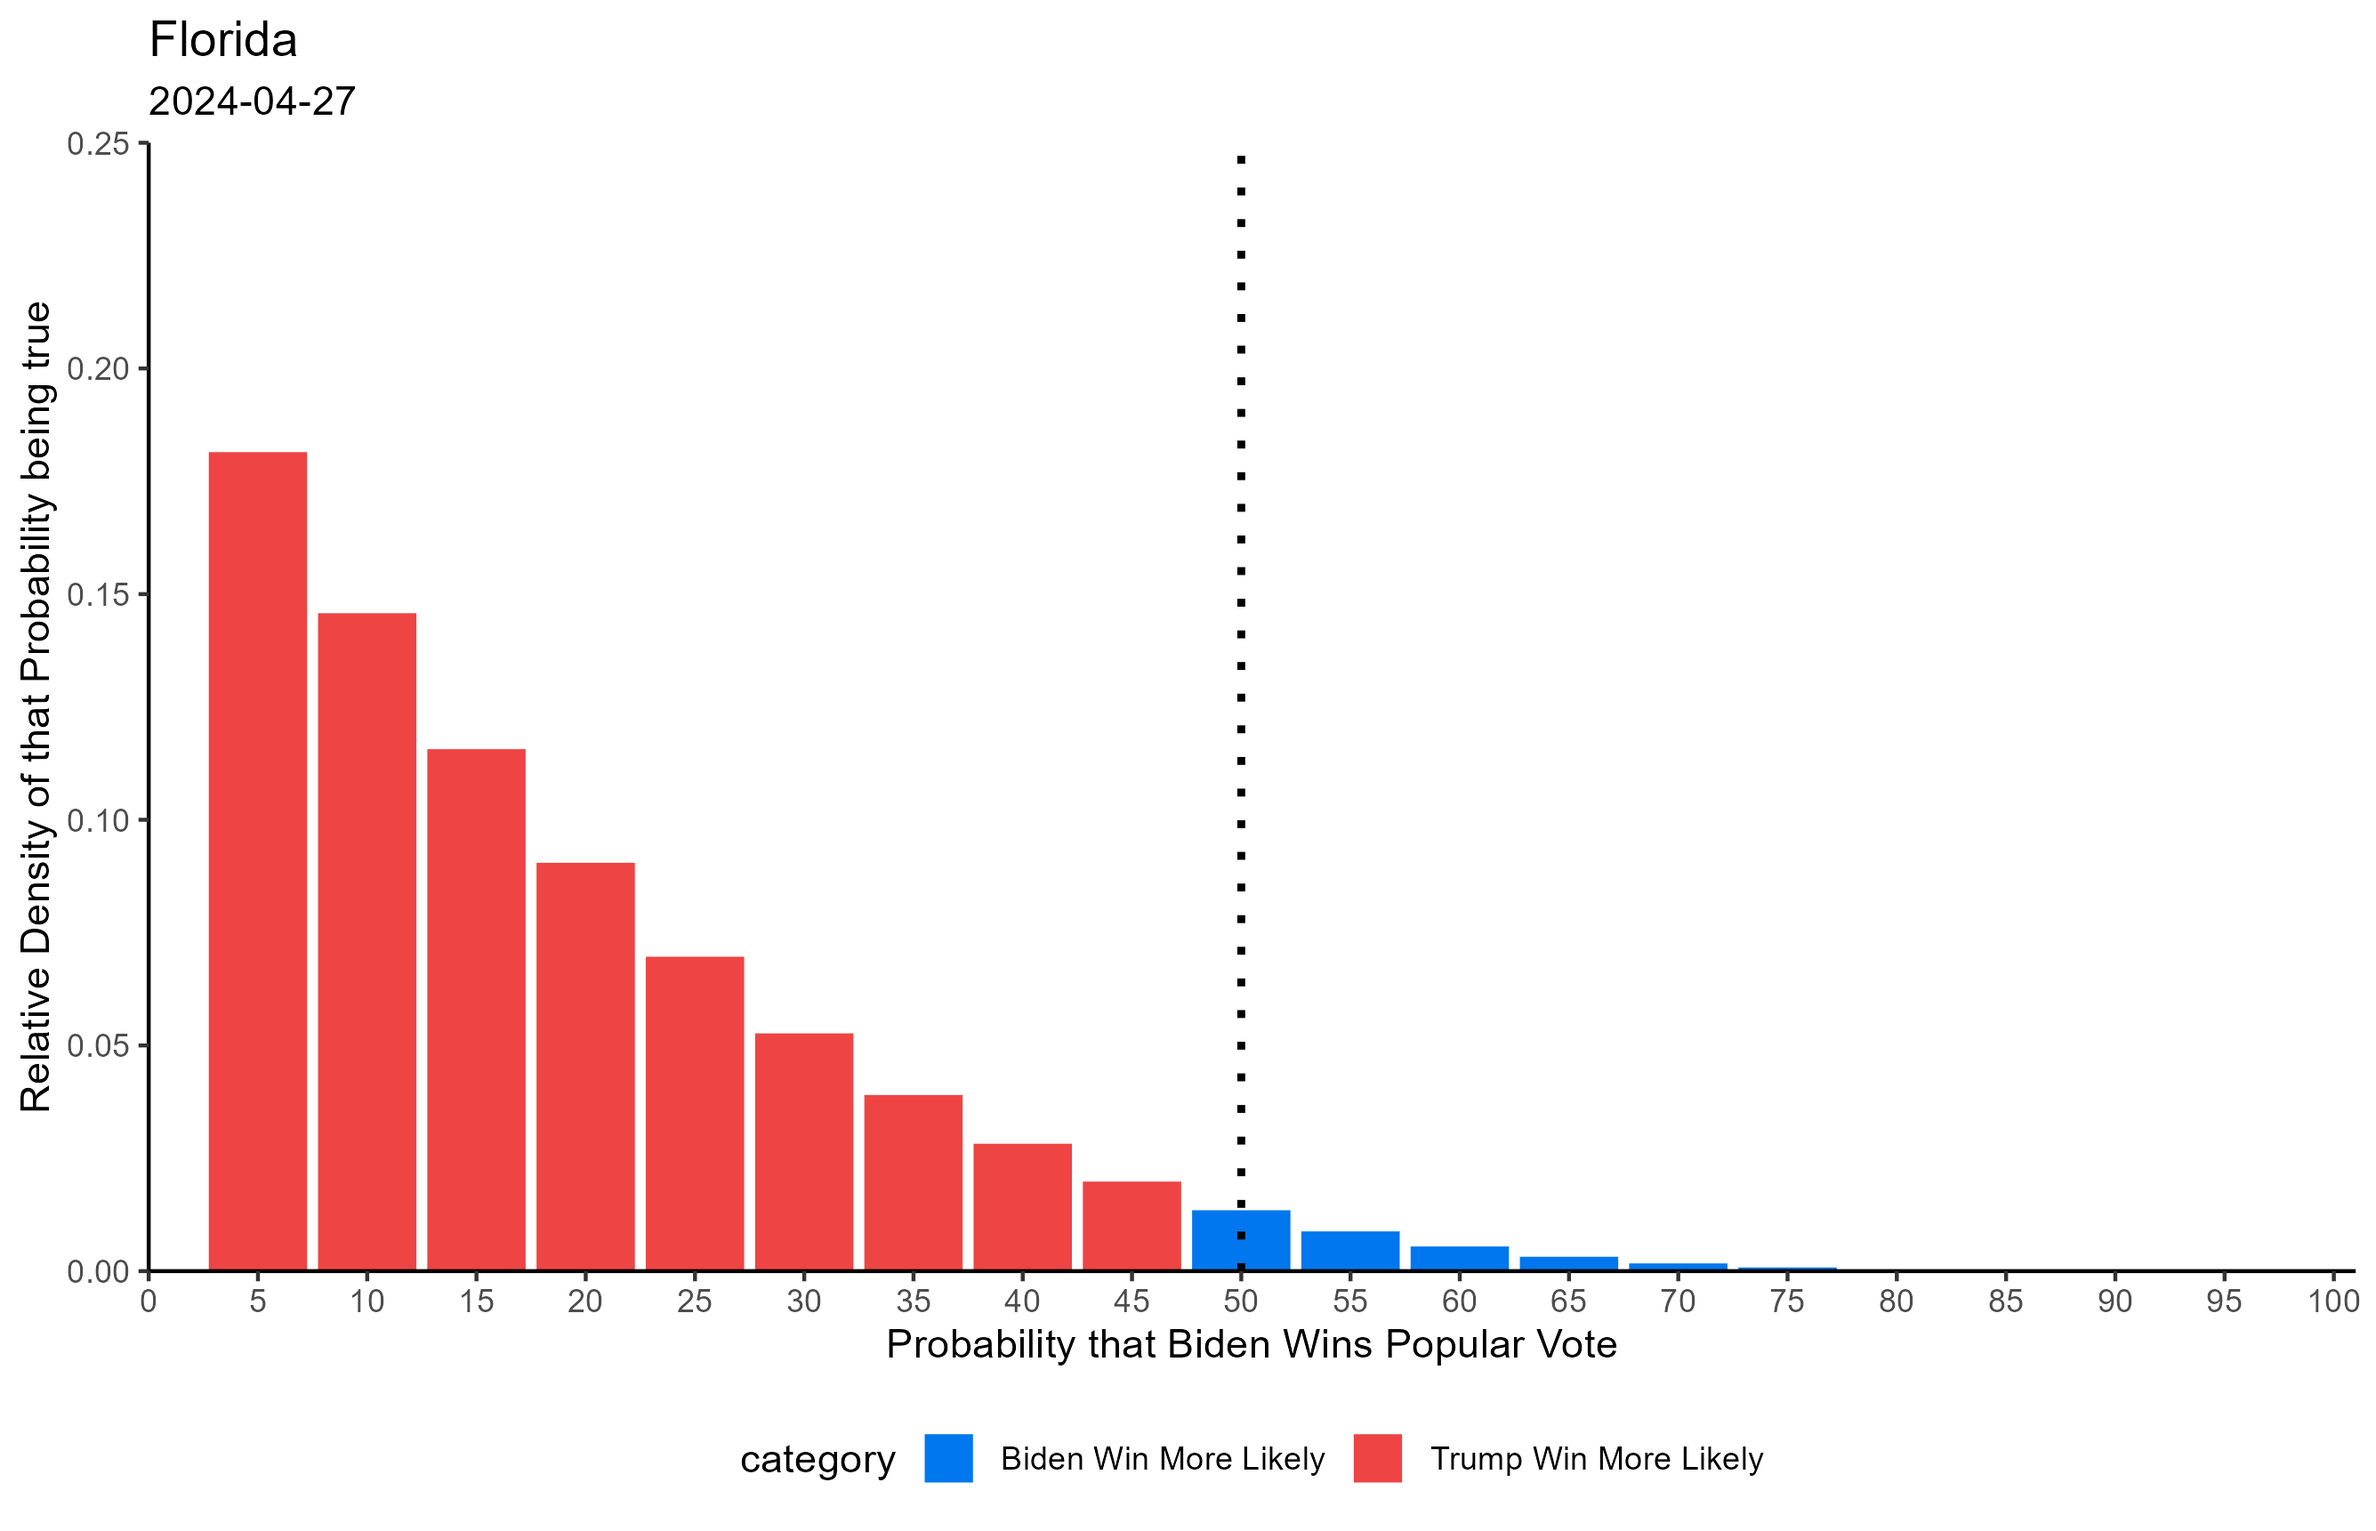
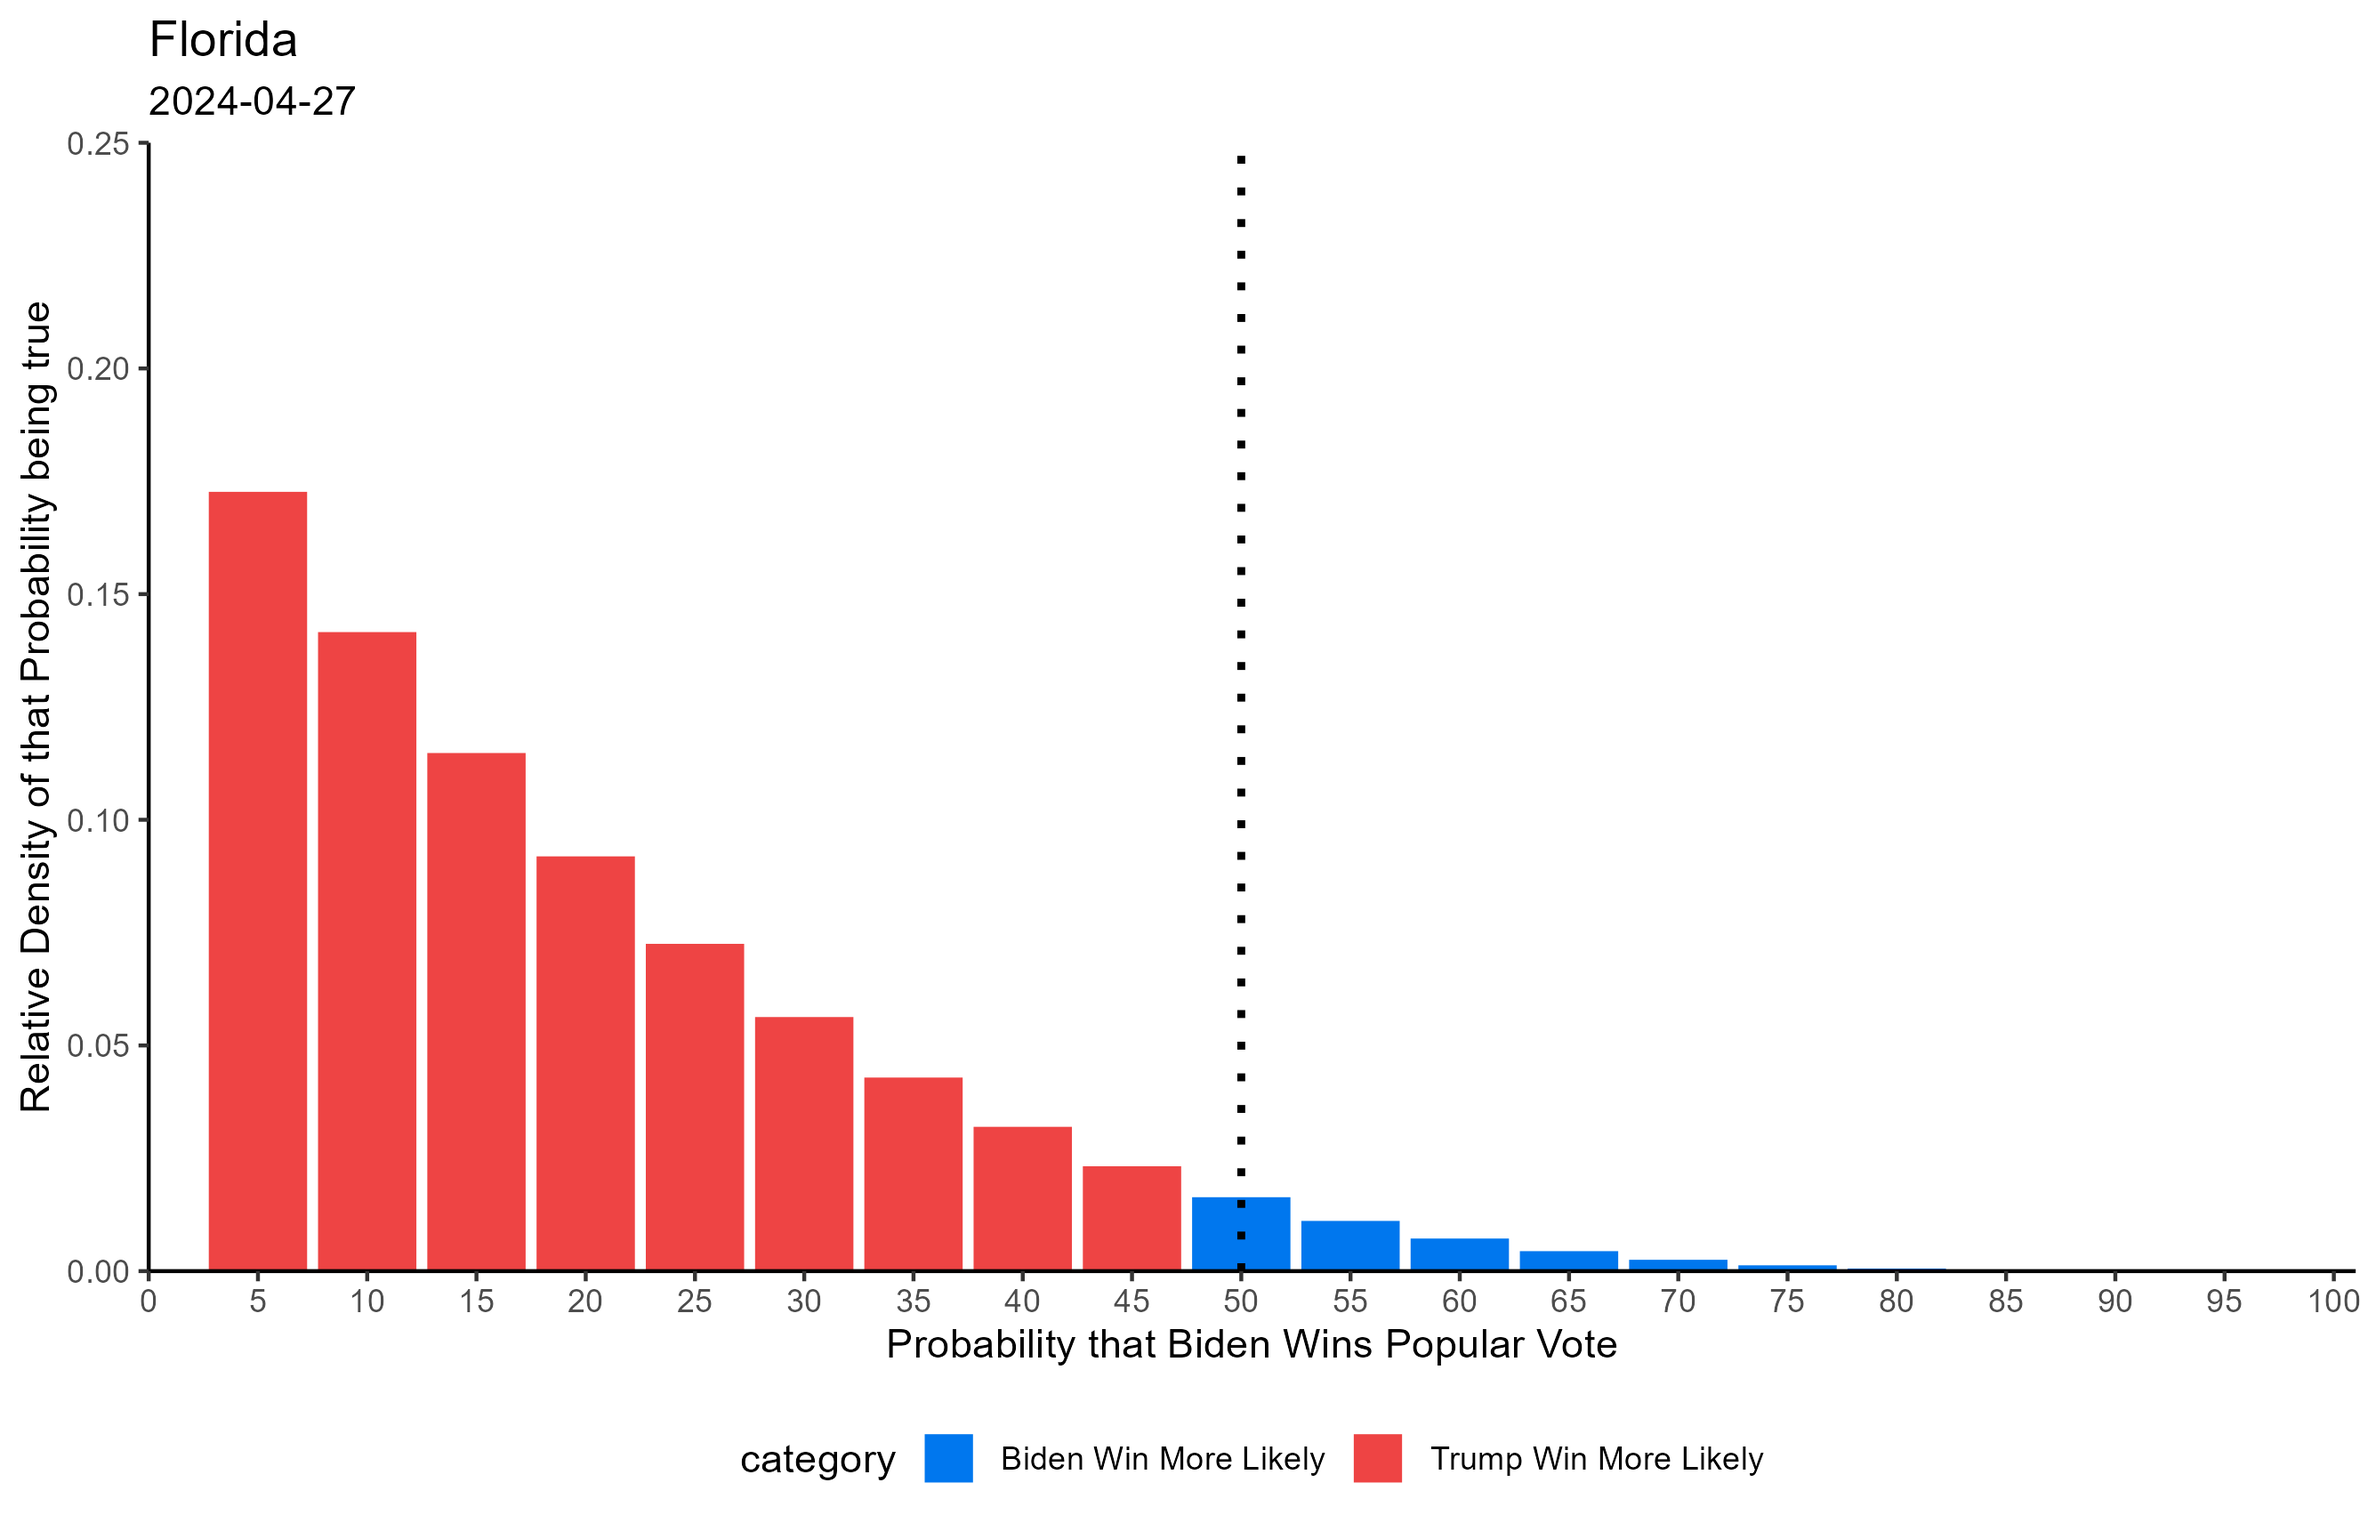
updated polls for 2024-04-29

diff --git a/election/polls.html b/election/polls.html
@@ -1,11 +1,11 @@
 <title>	Election Prediction</title>
-<div style="background: #ff4444; color: #ffffff; padding: 5px;">UPDATED : 2024-04-27</div>
+<div style="background: #ff4444; color: #ffffff; padding: 5px;">UPDATED : 2024-04-29</div>
 <div style="padding-left: 5%; padding-right: 5%; font: "Arial";">
 <div>
 	<h1>How Will The Popular Vote Go?</h1>	
 	<table>
 		<tr>
-			<td><img src="popular vote 2024-04-27.png", width="100%"></td>
+			<td><img src="popular vote 2024-04-29.png", width="100%"></td>
 			<td><p>Polls compiled by <a href="https://projects.fivethirtyeight.com/polls/">FiveThirtyEight</a> and analysis done by me. </p>
 
 			<p>The analysis is a beta distribution where the two parameters are how many wins Biden or Trump got in polls. The wins are 	weighted by how long ago they were (half life of 2 weeks), what the sample was (adults, registered voters, likely voters), and sample size. this analysis includes every Trump v. Biden poll going back to June 1.</p>
@@ -27,7 +27,7 @@
 	<h1>How About the Electoral College?</h1>
 	<h3>The Chance Trump Wins the Electoral College is</h3> <h1>98%</h1>
 	<h3>Here's the Relative Likelihood of each vote total in the Electoral College</h3>
-	<img src="electoral college 2024-04-27.png" width="50%">s
+	<img src="electoral college 2024-04-29.png" width="50%">s
 	<p>
 		There are only a few states that matter. These 8 are the ones that had the closest vote totals in 2020. This method assumes that all the other states will go the way they did in 2020.
 	</p>
@@ -39,17 +39,17 @@
 	</p>
 	<table>
 	  <tr>
-	    <td><h2>Arizona</h2><br><img src="Arizona 2024-04-27 .png" width="400"></td>
-	    <td><h2>Florida</h2><br><img src="Florida 2024-04-27 .png" width="400"></td>
-	    <td><h2>Georgia</h2><br><img src="Georgia 2024-04-27 .png" width="400" ></td>
-	    <td><h2>Michigan</h2><br><img src="Michigan 2024-04-27 .png" width="400"></td>
+	    <td><h2>Arizona</h2><br><img src="Arizona 2024-04-29 .png" width="400"></td>
+	    <td><h2>Florida</h2><br><img src="Florida 2024-04-29 .png" width="400"></td>
+	    <td><h2>Georgia</h2><br><img src="Georgia 2024-04-29 .png" width="400" ></td>
+	    <td><h2>Michigan</h2><br><img src="Michigan 2024-04-29 .png" width="400"></td>
 	  </tr>
 	  
 	  <tr>
-	    <td><h2>Nevada</h2><br><img src="Nevada 2024-04-27 .png" width="400"></td>
-	    <td><h2>North Carolina</h2><br><img src="North Carolina 2024-04-27 .png" width="400"></td>
-	    <td><h2>Pennsylvania</h2><br><img src="Pennsylvania 2024-04-27 .png" width="400" ></td>
-	    <td><h2>Wisconsin</h2><br><img src="Wisconsin 2024-04-27 .png" width="400"></td>
+	    <td><h2>Nevada</h2><br><img src="Nevada 2024-04-29 .png" width="400"></td>
+	    <td><h2>North Carolina</h2><br><img src="North Carolina 2024-04-29 .png" width="400"></td>
+	    <td><h2>Pennsylvania</h2><br><img src="Pennsylvania 2024-04-29 .png" width="400" ></td>
+	    <td><h2>Wisconsin</h2><br><img src="Wisconsin 2024-04-29 .png" width="400"></td>
 	  </tr>
 	</table>
 
